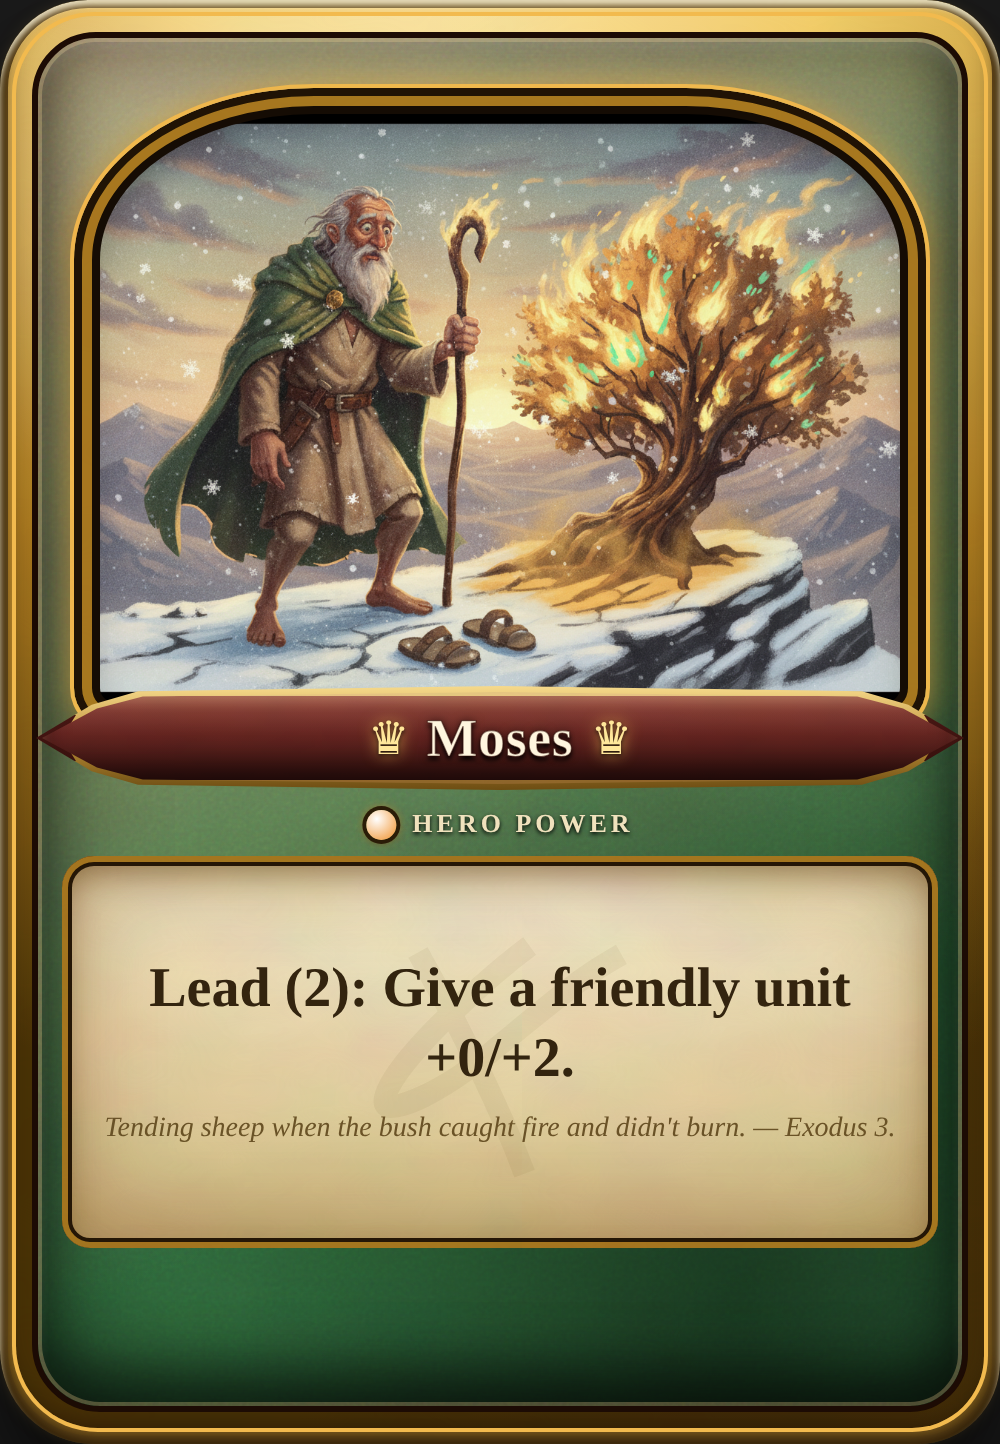
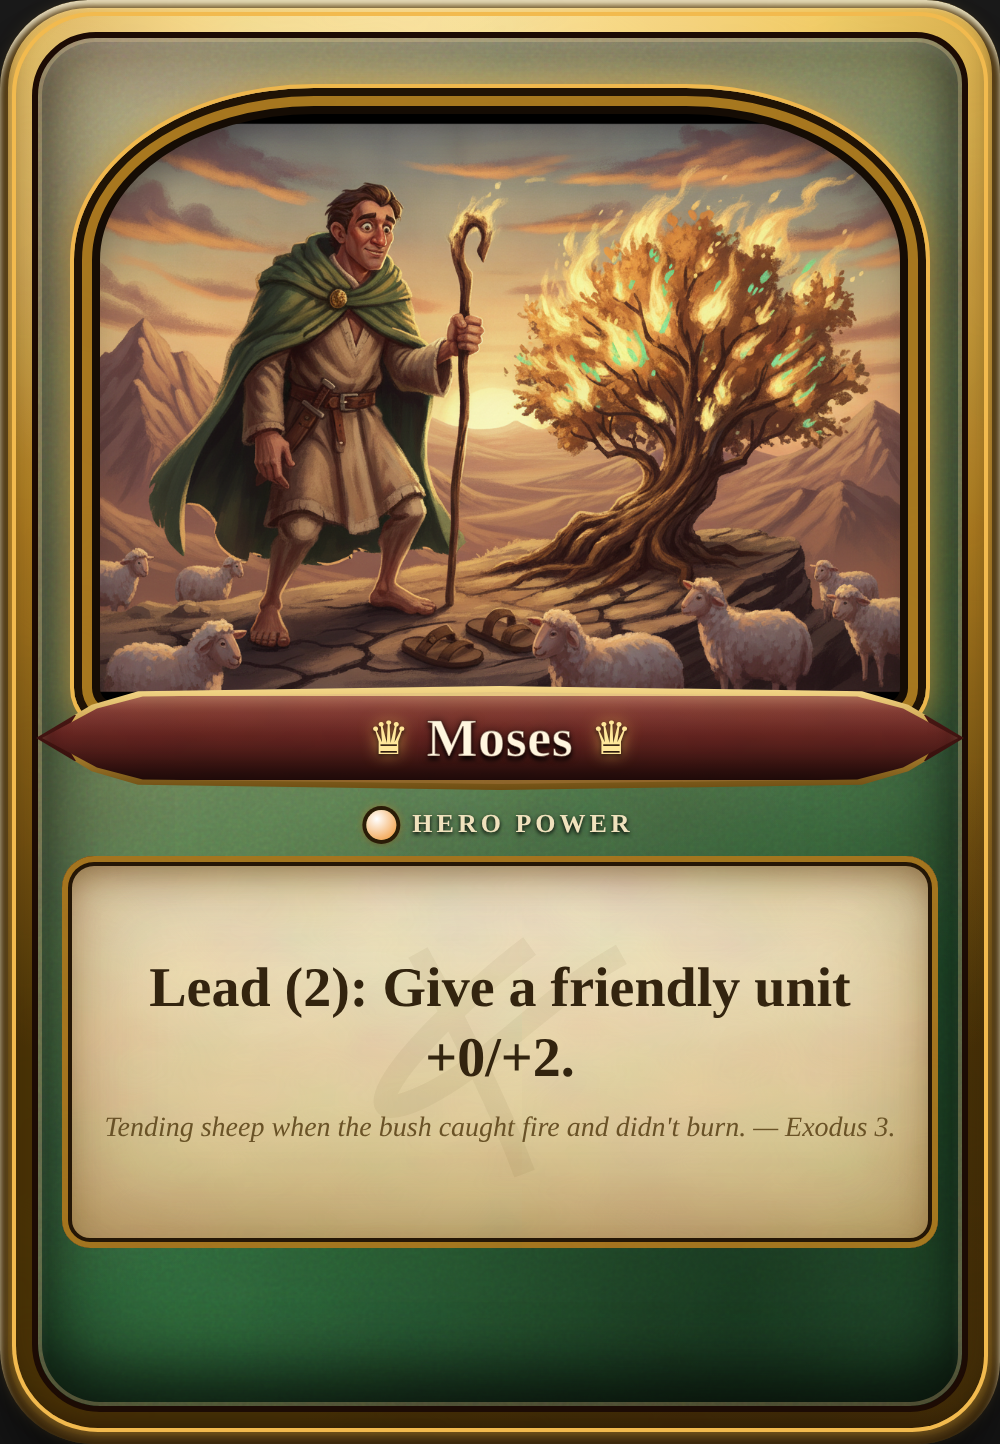
Add Adversary pool (22) + tokens (6); re-roll duds; full-bleed art fix
- data/adversaries.json: 22 AI-only villains (9 previously only named, now
  drafted to the stat rail + flagged for balance review; 13 from docs/08).
- data/tokens.json: Sheep, Heir, Dove, Disciple, Assyrian Soldier, Locust.
- gen_art: colder ADVERSARY_MASTER style + "adversary" palette; and require
  full-bleed art (fixes white-corner backgrounds on all future gens).
- build_card: adversary frame treatment (cold iron/slate accent, BOSS /
  ADVERSARY row); token/adversary rarity colors.
- tools/cardart/batch_group.py: generic runner with --force for re-rolls.
- Re-roll white-corner duds: Saul, Deborah & Moses leaders, four tokens.
- ui/assets/adversaries + ui/assets/tokens: art + framed; contact-sheet previews.

Claude-Session: https://claude.ai/code/session_01G5Hrs1BzeArAgPsPYHMjVG

Changed region(s): [[0.093, 0.0623, 0.899, 0.4986]]

diff --git a/tools/cardart/gen_art.py b/tools/cardart/gen_art.py
@@ -20,6 +20,8 @@ MASTER = ("Painterly digital trading-card illustration in a warm, expressive, se
           "brushwork, cinematic shadow, gold-leaf accent details, slightly caricatured but "
           "dignified faces. Historically-plausible ancient Near-Eastern / first-century dress "
           "and setting. Single dramatic focal figure, mid-shot, dynamic but grounded. "
+          "The scene fills the ENTIRE image edge-to-edge as a full-bleed background — no white "
+          "borders, no margins, no framing, no empty or blank space around the art. "
           "No text, no card frame, no modern objects, no visible face of God, no gore, no halos.")
 
 PALETTE = {
@@ -30,7 +32,18 @@ PALETTE = {
     "patriarch":"signature color starfield-indigo and desert-tan",
     "disciple": "signature color flame-red and amber",
     "neutral":  "muted earthy palette",
+    "adversary":"cold iron and slate with one sinister accent color",
 }
+
+# --- adversary style (Law: villains are colder, ornate, clearly *other*, never comic) ---
+ADVERSARY_MASTER = (
+    "Painterly digital trading-card illustration, foreboding and imposing, cold cinematic light, "
+    "desaturated palette with a single sinister accent color, ornate and menacing yet dignified — "
+    "clearly villainous, never comedic, never mocked. Historically-plausible ancient Near-Eastern / "
+    "first-century dress and setting. Single dramatic focal figure or object, mid-shot. "
+    "The scene fills the ENTIRE image edge-to-edge as a full-bleed background — no white borders, "
+    "no margins, no framing, no empty or blank space around the art. "
+    "No text, no card frame, no modern objects, no visible face of God, no gore, no blood.")
 
 def _ledger_load():
     if LEDGER.exists(): return json.loads(LEDGER.read_text())
@@ -40,7 +53,8 @@ def _ledger_save(l): LEDGER.write_text(json.dumps(l, indent=2))
 
 def generate(card_id, seed_line, cls="neutral", refs=None, aspect="4:3"):
     refs = refs or []
-    prompt = f"{MASTER} {seed_line} {PALETTE.get(cls,'')}. Card-portrait framing, room at the edges."
+    master = ADVERSARY_MASTER if cls == "adversary" else MASTER
+    prompt = f"{master} {seed_line} {PALETTE.get(cls,'')}. Card-portrait framing, room at the edges."
     parts = [{"text": prompt}]
     for rp in refs:
         b = pathlib.Path(rp).read_bytes()

diff --git a/tools/cardart/batch_group.py b/tools/cardart/batch_group.py
@@ -1,0 +1,48 @@
+#!/usr/bin/env python3
+"""Generic batch: generate art + compose frames for a data file.
+Usage:  CARDART_OUT=<dir> NODE_PATH="$(npm root -g)" \
+          python3 batch_group.py <file.json> <listKey> [--force=id1,id2]
+Idempotent (skips existing art) unless an id is in --force. With --force set,
+only the forced ids are (re)generated and re-rendered."""
+import sys, json, pathlib, subprocess, os
+import gen_art, build_card
+
+ROOT = pathlib.Path(__file__).parent
+data = json.loads((ROOT/'..'/'..'/'data'/sys.argv[1]).read_text())
+items = [c for c in data[sys.argv[2]] if isinstance(c, dict) and c.get('id')]
+force = set()
+for a in sys.argv[3:]:
+    if a.startswith('--force='):
+        force = set(a.split('=', 1)[1].split(','))
+
+OUT = gen_art.OUT; FRAMED = OUT/'framed'; FRAMED.mkdir(parents=True, exist_ok=True)
+BUILD = ROOT/'.build'; BUILD.mkdir(exist_ok=True)
+CARDS = (ROOT/'..'/'..'/'ui'/'assets'/'cards').resolve()
+REFS  = (ROOT/'..'/'..'/'ui'/'assets'/'refs').resolve()
+GP = subprocess.check_output(['npm','root','-g']).decode().strip()
+
+def refpath(r):
+    if not r: return None
+    for b in (CARDS, REFS):
+        p = b/f'{r}.png'
+        if p.exists(): return p
+    return None
+
+targets = [c for c in items if c['id'] in force] if force else items
+
+for c in targets:
+    art = OUT/f"{c['id']}.png"
+    if art.exists() and c['id'] not in force:
+        continue
+    rp = refpath(c.get('ref', ''))
+    gen_art.generate(c['id'], c['art'], c.get('class', 'neutral'), refs=[rp] if rp else [], aspect='4:3')
+
+env = {**os.environ, 'NODE_PATH': GP}
+env.setdefault('CHROMIUM_BIN', '/opt/pw-browsers/chromium-1194/chrome-linux/chrome')
+for c in targets:
+    art = OUT/f"{c['id']}.png"
+    if not art.exists(): continue
+    hp = BUILD/f"x_{c['id']}.html"; hp.write_text(build_card.build(c, str(art.resolve())))
+    subprocess.run(['node', str(ROOT/'render.js'), str(hp.resolve()), str(FRAMED/f"{c['id']}.png")],
+                   env=env, check=True)
+print(f"{sys.argv[2]}: {len(targets)} processed")

diff --git a/tools/cardart/build_card.py b/tools/cardart/build_card.py
@@ -14,8 +14,10 @@ CLASS_ACCENT = {  # (deep, bright) border/plate tones per class palette
     "patriarch":("#2b2a63", "#c9a86a"),   # starfield-indigo & desert-tan
     "disciple": ("#8a2a12", "#e0a02a"),   # flame-red & amber
     "neutral":  ("#5a4a2c", "#b9975a"),
+    "adversary":("#171a20", "#3c4654"),   # cold iron & slate — clearly "other"
 }
-RARITY = {"common":"#c9c9c9","rare":"#3f7fd6","epic":"#9b4fd0","legendary":"#f0912b"}
+RARITY = {"common":"#c9c9c9","rare":"#3f7fd6","epic":"#9b4fd0","legendary":"#f0912b",
+          "token":"#c9c9c9","adversary":"#8f3b34"}
 TAG_SIGIL = {"genesis":"✶","exodus":"𐤀","judges":"⚖","kingdom":"♛",
              "exile":"⛓","apostles":"✝","":""}
 
@@ -28,12 +30,18 @@ def build(card, art_png):
     sigil = TAG_SIGIL.get(card.get("tag") or "", "")
     is_minion = card.get("type") == "minion"
     is_leader = card.get("type") == "leader"
+    is_adversary = card.get("class") == "adversary"
     legendary = card.get("rarity") == "legendary"
     art = data_uri(art_png)
     name = html.escape(card.get("name") or "")
     text = html.escape(card.get("text") or "")
     flavor = html.escape(card.get("flavor") or "")
-    tag_lbl = "HERO POWER" if is_leader else (card.get("tag") or "").capitalize()
+    if is_leader:
+        tag_lbl = "HERO POWER"
+    elif is_adversary:
+        tag_lbl = "BOSS" if card.get("boss") else "ADVERSARY"
+    else:
+        tag_lbl = (card.get("tag") or "").capitalize()
 
     T = """<!doctype html><html><head><meta charset=utf-8><style>
 :root{--deep:@DEEP@;--bright:@BRIGHT@;--gold:#f4cf6a;--gold2:#a9791f;
